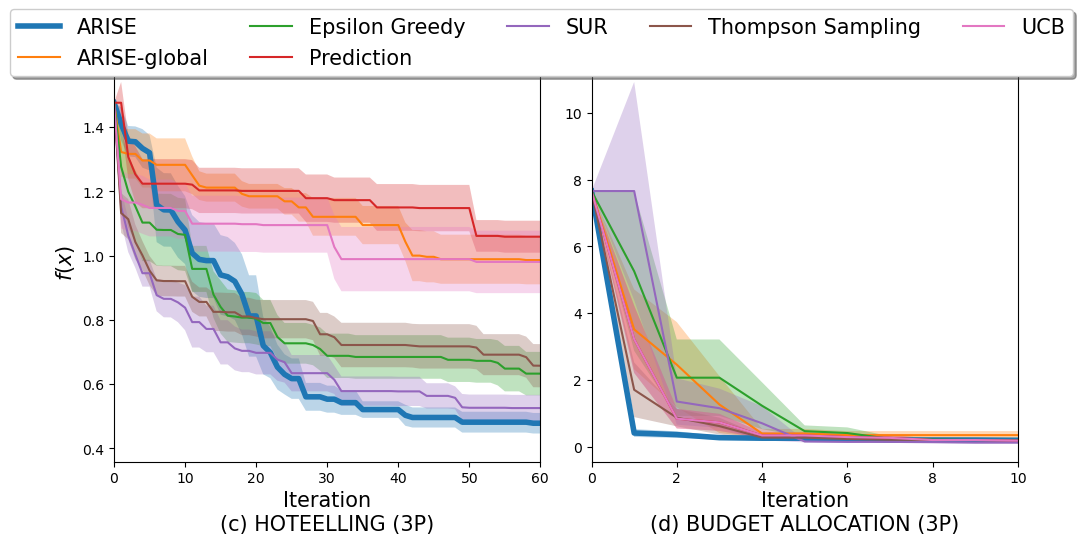
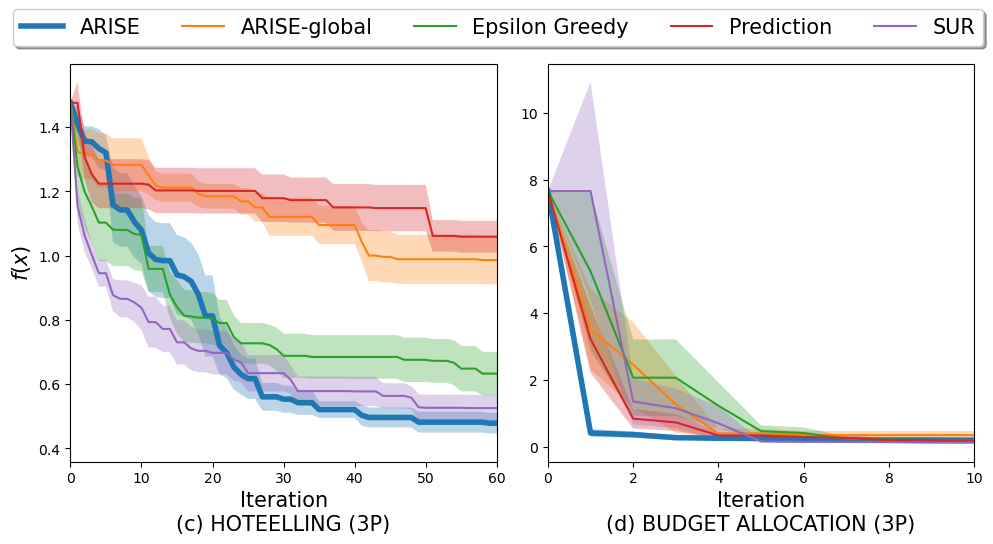
update legend

diff --git a/src/utils/problems.py b/src/utils/problems.py
@@ -508,4 +508,4 @@ class Saddle_var(problem):
         return rgt1 - val1 + rgt2 - val2
 
 
-ignore_list = ['random']
+ignore_list = ['random', 'ts', 'ucb']
